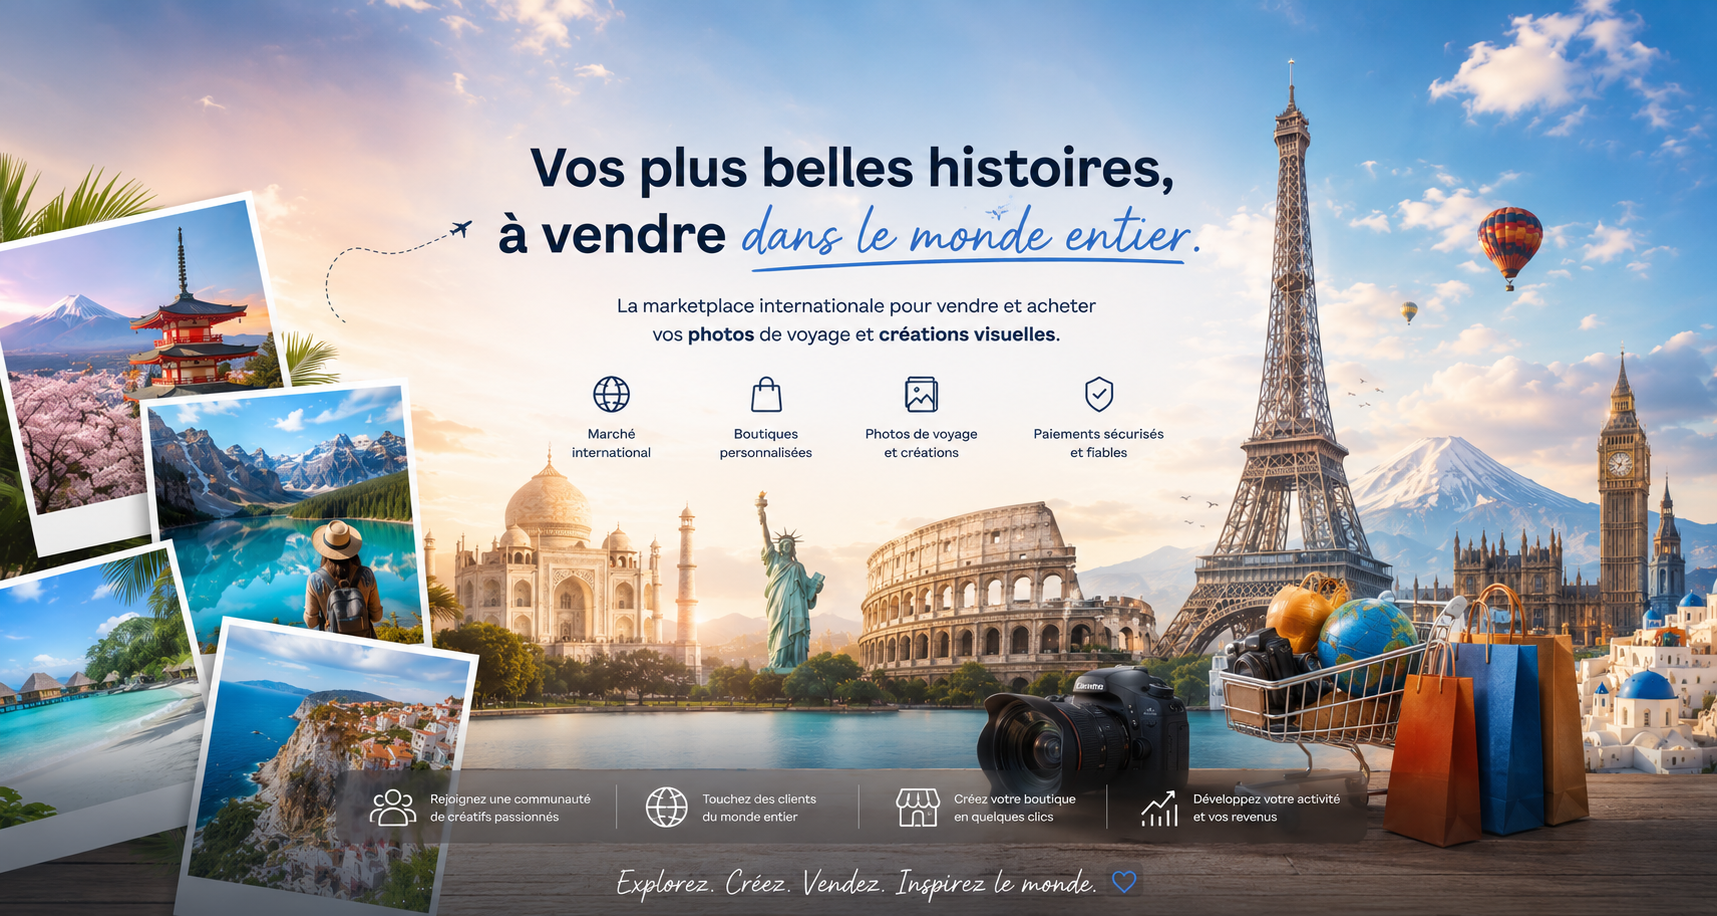
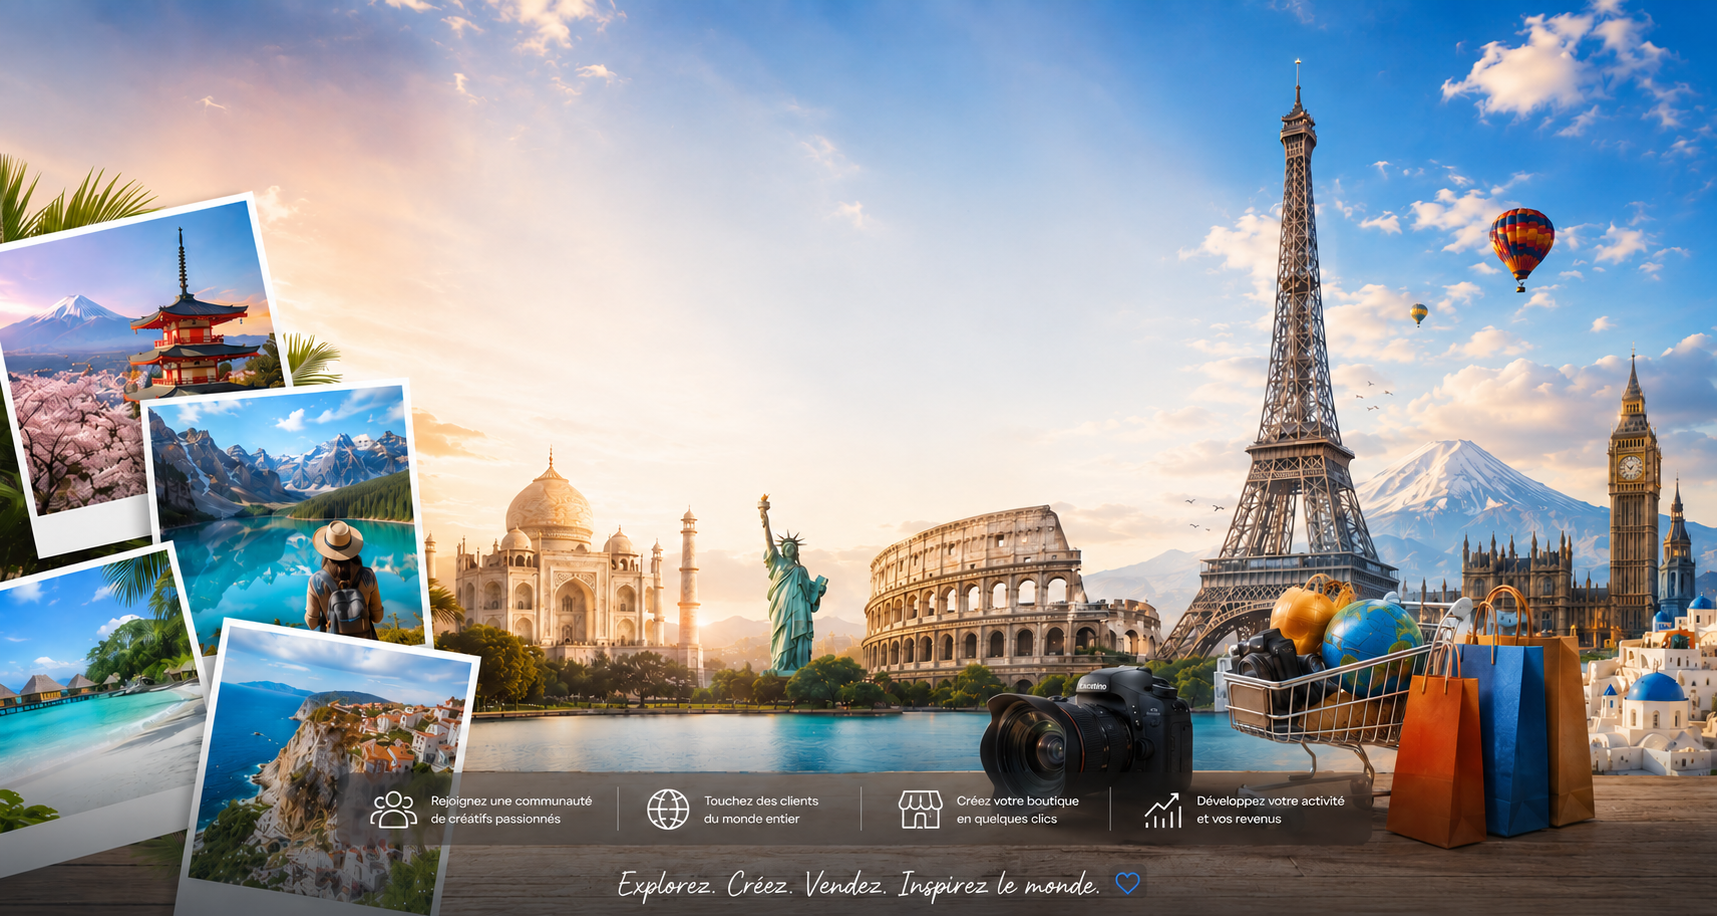
fix header globale

diff --git a/resources/views/emails/welcome.blade.php b/resources/views/emails/welcome.blade.php
@@ -60,6 +60,7 @@
 </head>
 <body>
     <div class="header">
+        <img src="{{asset('logo.png')}}" alt="{{ $data['site_name'] }} Logo" style="max-width: 150px;">
         <h1>Bienvenue sur {{ $data['site_name'] }} !</h1>
     </div>
     
@@ -68,28 +69,15 @@
         
         <p>Votre établissement <strong>{{ $data['etablissement_name'] }}</strong> a été créé avec succès sur notre plateforme.</p>
         
-        <div class="info-box">
-            <p><strong>Important :</strong> Pour des raisons de sécurité, nous vous recommandons de changer votre mot de passe dès votre première connexion.</p>
-        </div>
-        
-        <div class="credentials">
-            <h3>Vos identifiants de connexion :</h3>
-            <p><strong>Email :</strong> {{ $data['email'] }}</p>
-            @if(isset($data['password']))
-            <p><strong>Mot de passe :</strong> {{ $data['password'] }}</p>
-            @endif
-        </div>
-        
+               
         <p>Vous pouvez vous connecter dès maintenant en cliquant sur le bouton ci-dessous :</p>
         
         <a href="{{ $data['login_url'] }}" class="button">Se connecter maintenant</a>
         
-        <p>Une fois connecté, vous pourrez :</p>
+        <p>Une fois connecté, vous pourrez Gérer votre Espace Entreprise:</p>
         <ul>
-            <li>Accéder à votre tableau de bord</li>
-            <li>Modifier les informations de votre établissement</li>
-            <li>Gérer vos activités</li>
-            <li>Consulter vos statistiques</li>
+            <li>Modifier, Consulter vos statistiques.</li>
+            <li>Activier votre plan d'affichage.</li>
         </ul>
         
         <p>Si vous avez des questions ou besoin d'assistance, n'hésitez pas à nous contacter à :</p>
